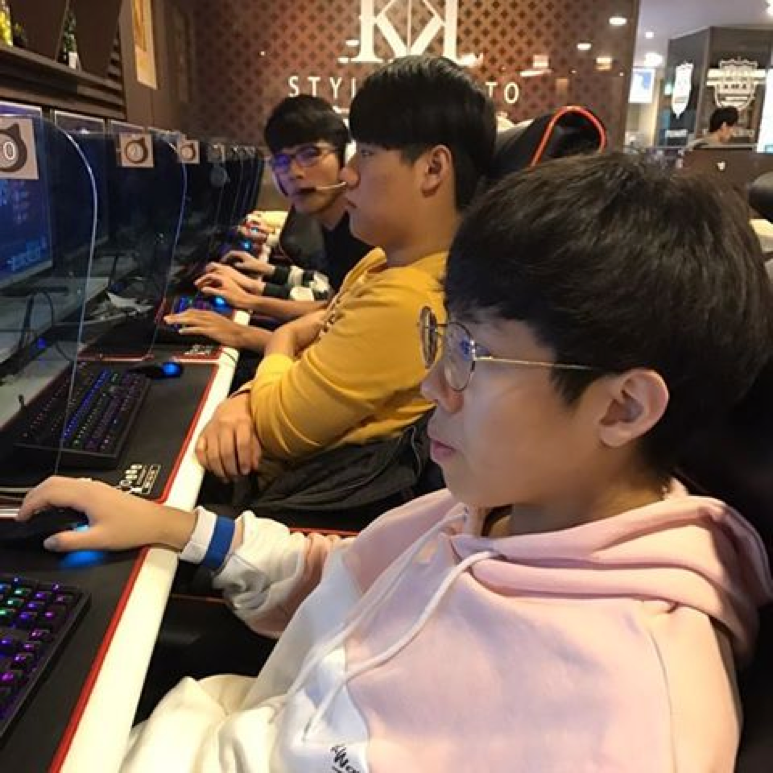
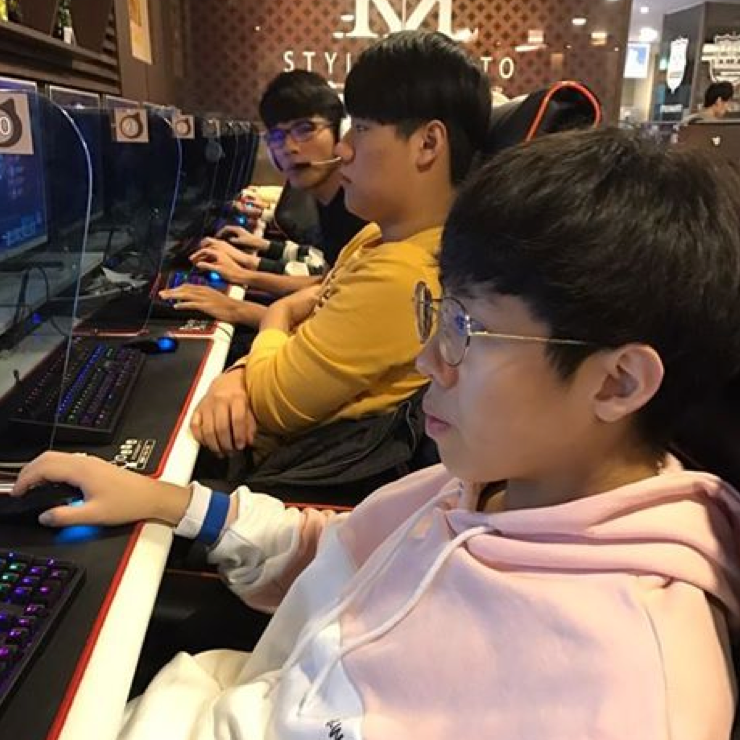
resized images and removed consolelog

diff --git a/prototype/static/js/newcalendar.js b/prototype/static/js/newcalendar.js
@@ -123,7 +123,7 @@ Calendar.prototype.generateHTML = function(){
     // this loop is for weekdays (cells)
     for (var j = 0; j <= 6; j++) { 
       var input_string =  (this.month+1).toString() +"/" + day.toString() + "/" + (this.year).toString();
-      console.log(input_string);
+      
       if(checkifdrank(input_string)){
         // fixed dates =_=
         if(day == 27){
@@ -183,8 +183,7 @@ function checkifdrank(date1){
   var i = 0;
   for(i = 0; i< 3; i++){
     if (date2.getMonth() == drunkdays[i].getMonth() && date2.getDate() == drunkdays[i].getDate() && date2.getFullYear() == drunkdays[i].getFullYear()){
-      console.log(date2);
-      console.log(drunkdays[i]);
+
       return true;
     }
   }
